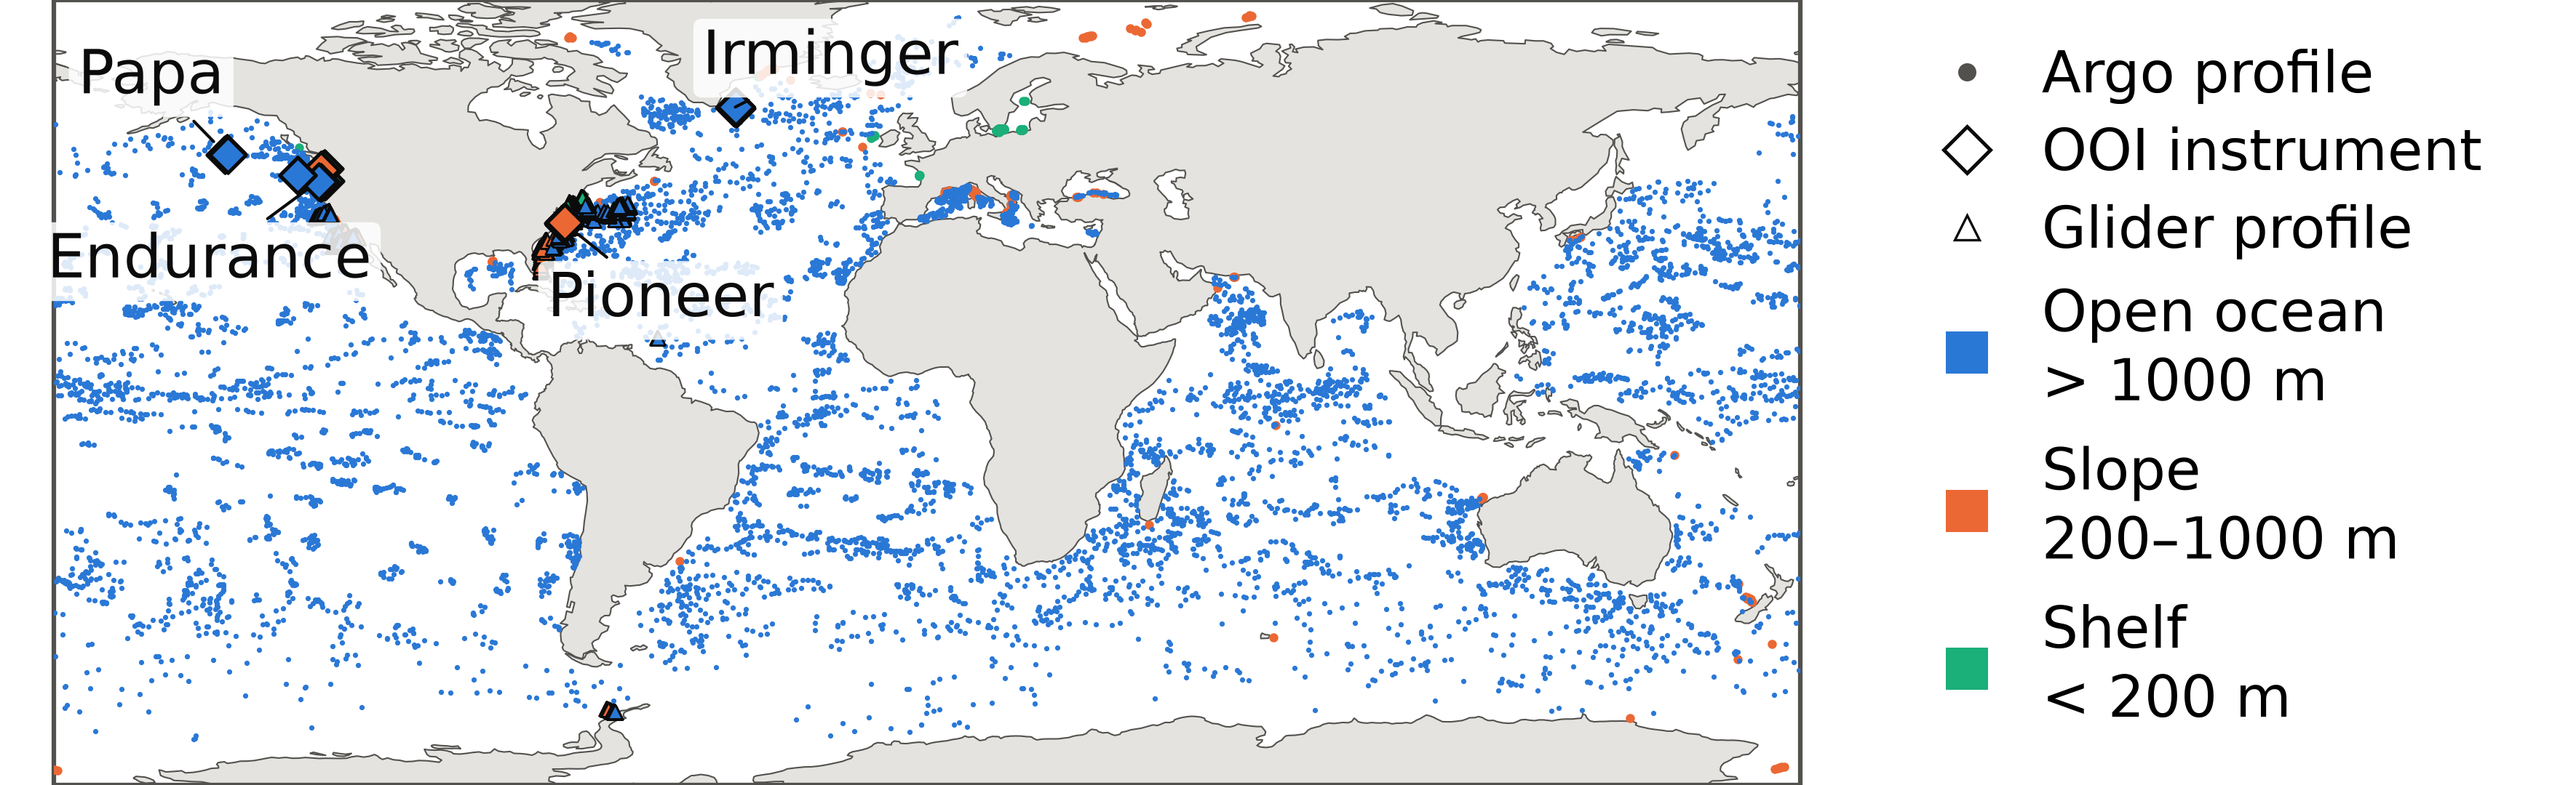
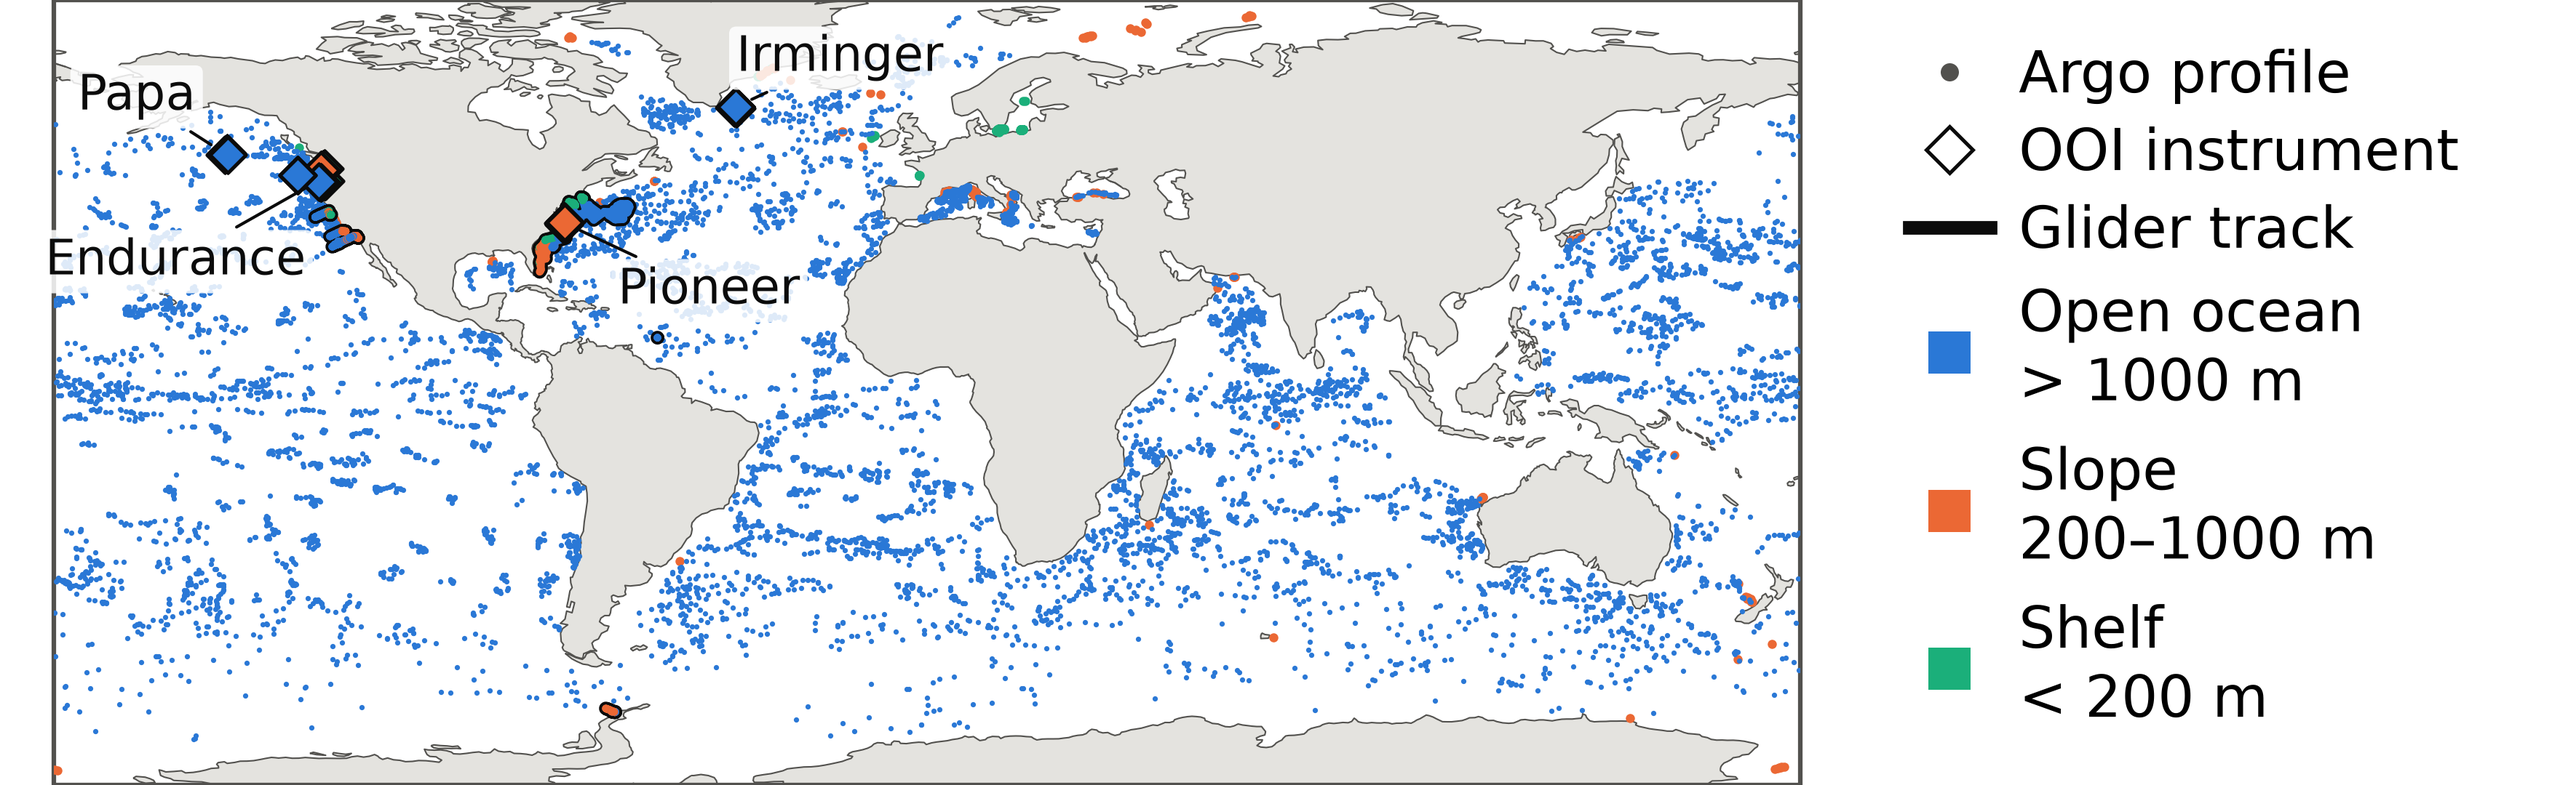
Data map: gliders as tracks, OOI labels moved off them and smaller (#22)
Eli, 2026-11-24.

diff --git a/poster/scripts/fig_data_map.py b/poster/scripts/fig_data_map.py
@@ -10,8 +10,11 @@ outlined diamonds. Eli (2026-11-24): the two coastal insets (Endurance &
 Cabled, Pioneer) were dropped as clutter; the legend takes their place on the
 right. INSETS and inset_grids.py are kept in case the insets come back.
 
-Poster v2 (#22): glider profiles as small outlined triangles; a glider moves,
-so each profile is drawn and the deployments show as short tracks.
+Poster v2 (#22): gliders as tracks (Eli, 2026-11-24): one line per
+deployment through its profiles in time order, each segment coloured by the
+water-depth class of the profile it starts at, over a dark casing so the
+tracks stand apart from the Argo dots. The OOI array labels were moved into
+open water away from the glider tracks, and made smaller.
 """
 
 from pathlib import Path
@@ -21,6 +24,7 @@ import cartopy.feature as cfeature
 import matplotlib.pyplot as plt
 import numpy as np
 import pandas as pd
+from matplotlib.collections import LineCollection
 from matplotlib.lines import Line2D
 
 from poster_style import COLUMN_WIDTH_IN, DPI, apply_style
@@ -49,10 +53,10 @@ INSETS = {
     "pioneer": ("Pioneer", -75.4, -74.35, 35.6, 36.3),
 }
 ARRAY_LABELS = [  # (text, array lon, lat, label lon, lat) on the world map
-    ("Irminger", -39.6, 59.9, -20, 70),
-    ("Papa", -144.5, 50.1, -160, 66),
-    ("Endurance", -125.0, 45.0, -148, 28),
-    ("Pioneer", -74.9, 36.0, -55, 20),
+    ("Irminger", -39.6, 59.9, -18, 70),
+    ("Papa", -144.5, 50.1, -163, 62),
+    ("Endurance", -125.0, 45.0, -155, 28),
+    ("Pioneer", -74.9, 36.0, -45, 22),
 ]
 
 
@@ -72,11 +76,15 @@ def scatter_ooi(ax, o, size):
                    edgecolors=INK, lw=1.2, transform=ccrs.PlateCarree(), zorder=5)
 
 
-def scatter_glider(ax, g, size):
-    for cls in reversed(list(CLASSES)):
-        s = g[g["depth_class"] == cls]
-        ax.scatter(s["lon"], s["lat"], s=size, c=CLASSES[cls][0], marker="^",
-                   edgecolors=INK, lw=0.6, transform=ccrs.PlateCarree(), zorder=4)
+def glider_tracks(ax, g, lw):
+    for _, t in g.sort_values("profile_id").groupby("instrument"):
+        xy = t[["lon", "lat"]].to_numpy()
+        ax.plot(xy[:, 0], xy[:, 1], color=INK, lw=lw + 2, solid_capstyle="round",
+                transform=ccrs.PlateCarree(), zorder=4)
+        seg = np.stack([xy[:-1], xy[1:]], axis=1)
+        cols = [CLASSES[c][0] for c in t["depth_class"].iloc[:-1]]
+        ax.add_collection(LineCollection(seg, colors=cols, lw=lw, capstyle="round",
+                                         transform=ccrs.PlateCarree(), zorder=4.5))
 
 
 def main():
@@ -96,12 +104,12 @@ def main():
     ax.coastlines("110m", lw=0.5, color=INK_2, zorder=2)
     ax.spines["geo"].set_edgecolor(INK_2)
     scatter_argo(ax, a, 3)
-    scatter_glider(ax, g, 22)
+    glider_tracks(ax, g, 2.5)
     scatter_ooi(ax, o, 70)
     for text, lon, lat, tlon, tlat in ARRAY_LABELS:
         ax.annotate(text, (lon, lat), (tlon, tlat), xycoords=proj._as_mpl_transform(ax),
                     textcoords=proj._as_mpl_transform(ax), ha="center", va="center",
-                    fontsize=20, color=INK, zorder=6,
+                    fontsize=16, color=INK, zorder=6,
                     bbox=dict(boxstyle="round,pad=0.15", fc="white", ec="none", alpha=0.85),
                     arrowprops=dict(arrowstyle="-", color=INK, lw=1.0, shrinkB=6))
 
@@ -112,11 +120,10 @@ def main():
                label="Argo profile"),
         Line2D([], [], ls="none", marker="D", ms=11, mfc="white", mec=INK, mew=1.2,
                label="OOI instrument"),
-        Line2D([], [], ls="none", marker="^", ms=8, mfc="white", mec=INK, mew=0.8,
-               label="Glider profile"),
+        Line2D([], [], color=INK, lw=4.5, label="Glider track"),
     ]
     fig.legend(handles=plat_h + cls_h, loc="center left", bbox_to_anchor=(0.73, 0.5), ncol=1,
-               frameon=False, fontsize=19, handletextpad=0.3, borderaxespad=0.1, labelspacing=0.35)
+               frameon=False, fontsize=19, handlelength=1.4, handletextpad=0.5, borderaxespad=0.1, labelspacing=0.35)
     fig.savefig(OUT, dpi=DPI, facecolor="white")
     plt.close(fig)
     print(f"wrote {OUT}")
